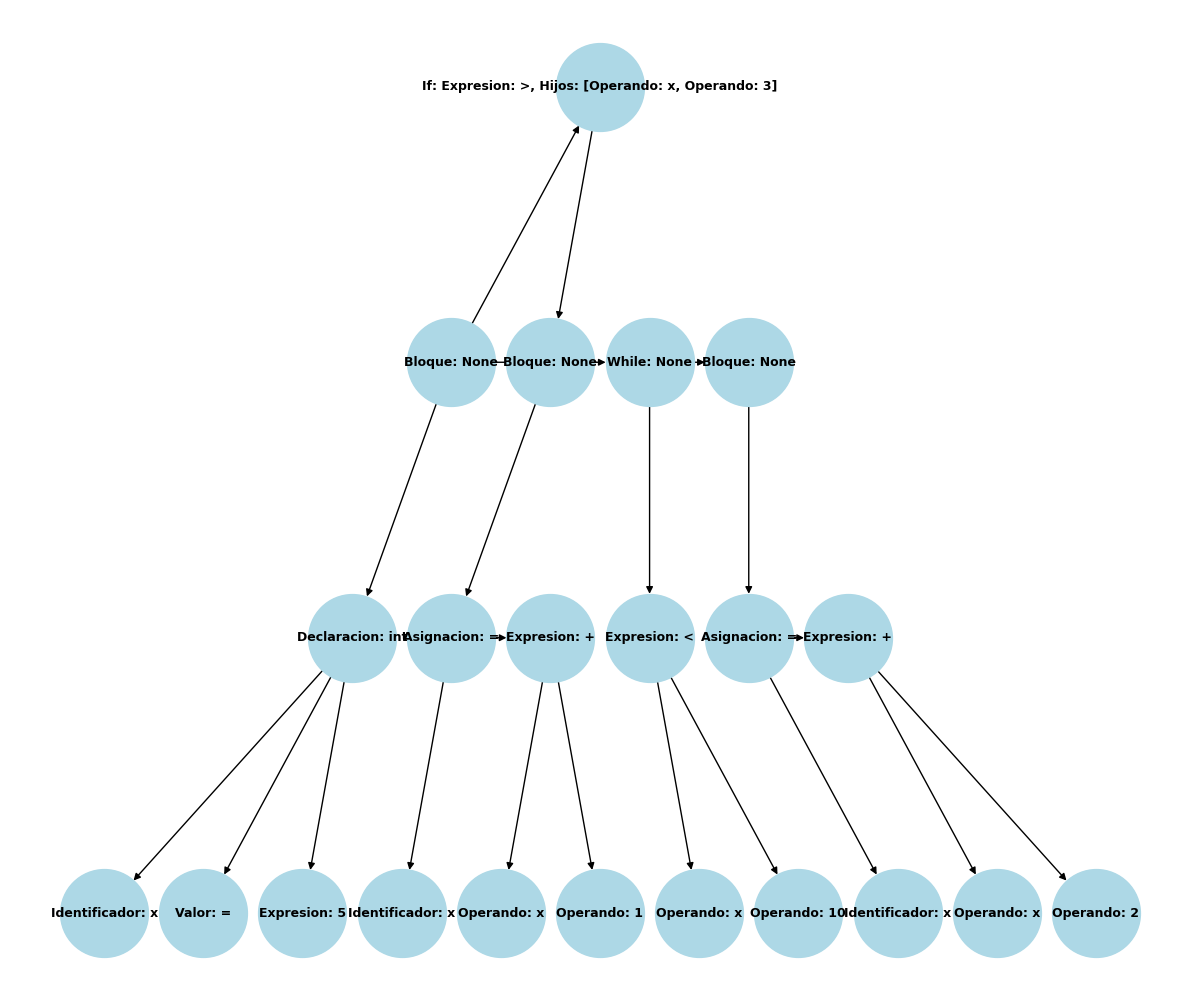
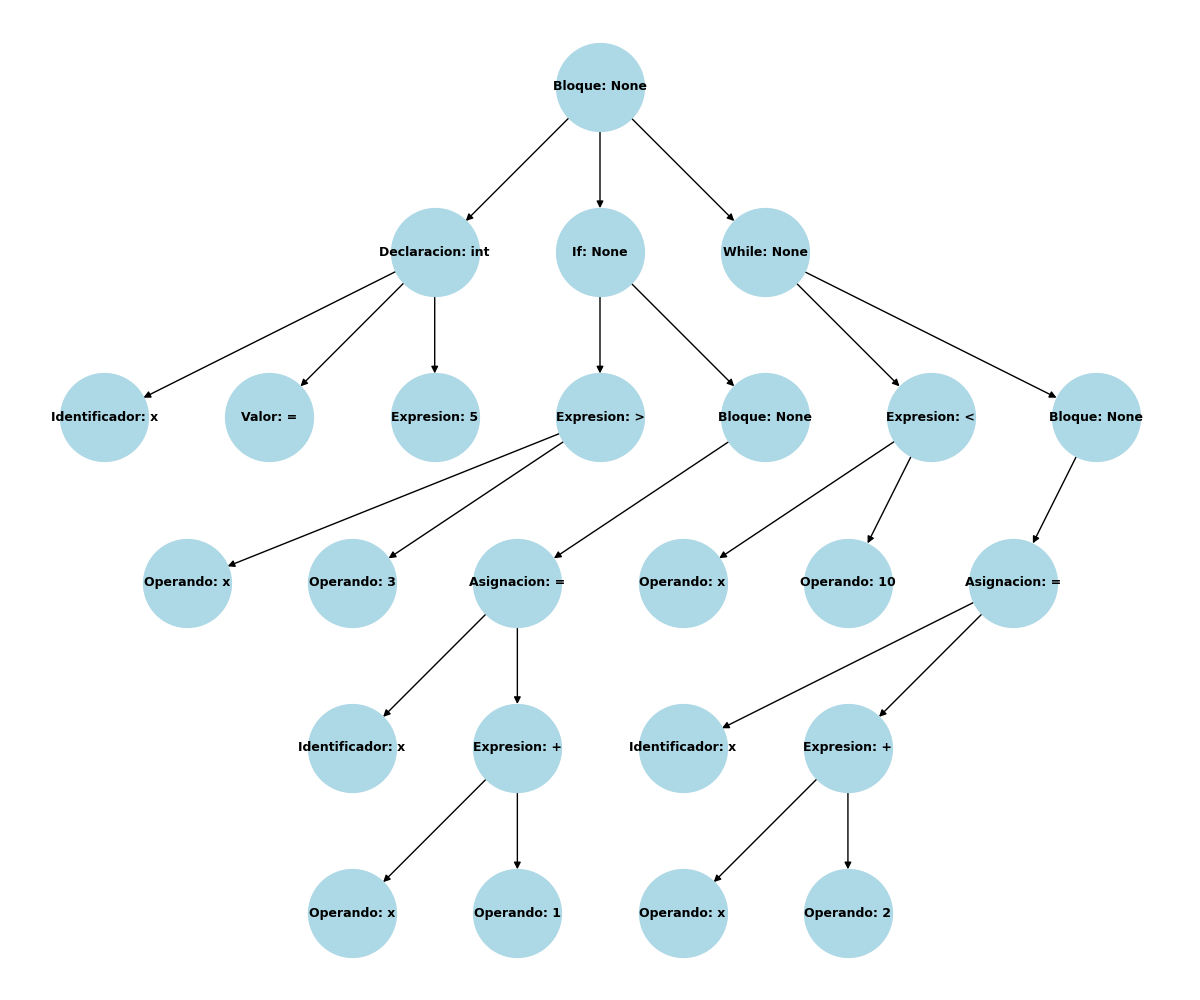
Modificaciones en la funcion de sentencia_if, y como se genera el grafico del arbol

diff --git a/analizador_sintactico.py b/analizador_sintactico.py
@@ -19,15 +19,15 @@ class ASTNode:
     def graficar(self, parent_id=None, node_count=0, nodes=[], edges=[], level=0):
         node_id = node_count
         nodes.append((node_id, f"{self.tipo}: {str(self.valor)}"))
-        
+
         if parent_id is not None:
             edges.append((parent_id, node_id))
-        
+
         node_count += 1
-        
+
         if not isinstance(self.hijos, list):
             self.hijos = [self.hijos]
-        
+
         for hijo in self.hijos:
             if isinstance(hijo, ASTNode):
                 node_count = hijo.graficar(parent_id=node_id, node_count=node_count, nodes=nodes, edges=edges, level=level + 1)
@@ -35,7 +35,7 @@ class ASTNode:
                 nodes.append((node_count, f"Valor: {hijo}"))
                 edges.append((node_id, node_count))
                 node_count += 1
-        
+
         return node_count
 
     def graficar_mpl(self, output_filename="arbol_sintactico.png"):
@@ -44,7 +44,7 @@ class ASTNode:
         self.graficar(node_count=0, nodes=nodes, edges=edges)
 
         G = nx.DiGraph()
-        
+
         # Añadir los nodos
         for node_id, label in nodes:
             G.add_node(node_id, label=label)
@@ -56,12 +56,12 @@ class ASTNode:
         pos = self.crear_layout_arbol(G, nodes, edges)
 
         labels = nx.get_node_attributes(G, 'label')
-        
+
         plt.figure(figsize=(12, 10))  # Ajustar el tamaño de la figura
         nx.draw(G, pos, with_labels=True, labels=labels, node_size=4000, node_color='lightblue', font_size=9, font_weight='bold', arrows=True)
-        
+
         plt.title("Árbol Sintáctico Abstracto")
-        
+
         # Guardar la imagen
         plt.savefig(output_filename, format="PNG")
         plt.show()
@@ -69,36 +69,42 @@ class ASTNode:
 
     def crear_layout_arbol(self, G, nodes, edges):
         pos = {}
-        vertical_spacing = 2  # Aumentar el espaciado vertical
-        level_widths = self.calcular_anchos_por_nivel(nodes, edges)
-        
-        y_offset = 0
-        for level, width in enumerate(level_widths):
-            x_spacing = 9000  # Aumentar el espaciado horizontal
-            x_offset = - (width * x_spacing) / 2
-            for node_id, label in nodes:
-                if self.obtener_nivel(node_id, edges) == level:
-                    pos[node_id] = (x_offset, y_offset)
-                    x_offset += x_spacing
-            y_offset += vertical_spacing  # Aumentar el desplazamiento vertical
-        
-        return pos
-    
-    def calcular_anchos_por_nivel(self, nodes, edges):
         levels = {}
         for node_id, label in nodes:
             level = self.obtener_nivel(node_id, edges)
             if level not in levels:
-                levels[level] = 0
-            levels[level] += 1
-        
-        return [levels.get(i, 0) for i in range(max(levels.keys()) + 1)]
+                levels[level] = []
+            levels[level].append(node_id)
+
+        max_level = max(levels.keys()) if levels else 0
+        vertical_spacing = 1  # Espaciado vertical entre niveles
+
+        for level in range(max_level + 1):
+            if level not in levels:
+                continue
+
+            horizontal_spacing = 2  # Espaciado horizontal entre nodos en el mismo nivel
+            level_width = len(levels[level]) * horizontal_spacing
+            x_start = -level_width / 2  # Centrar los nodos en el nivel
+
+            for i, node_id in enumerate(levels[level]):
+                x = x_start + i * horizontal_spacing
+                y = -level * vertical_spacing
+                pos[node_id] = (x, y)
+
+        return pos
 
     def obtener_nivel(self, node_id, edges):
+        parent = self.obtener_padre(node_id, edges)
+        if parent is None:
+            return 0  # Nodo raíz
+        return self.obtener_nivel(parent, edges) + 1
+
+    def obtener_padre(self, node_id, edges):
         for start, end in edges:
-            if start == node_id:
-                return self.obtener_nivel(end, edges) + 1
-        return 0  # Es el nodo raíz
+            if end == node_id:
+                return start
+        return None  # Es el nodo raíz
 
 
 
@@ -235,7 +241,7 @@ class Parser:
             elif token_type == "Condicional" and token_value == "else if":
                 return self.parse_sentencia_if()  # Recurre y analiza el 'else if' como un nuevo 'if'
         
-        return ASTNode("If", expresion, instrucciones)
+        return ASTNode("If", None, [expresion, instrucciones])
 
 
     def parse_sentencia_while(self):
